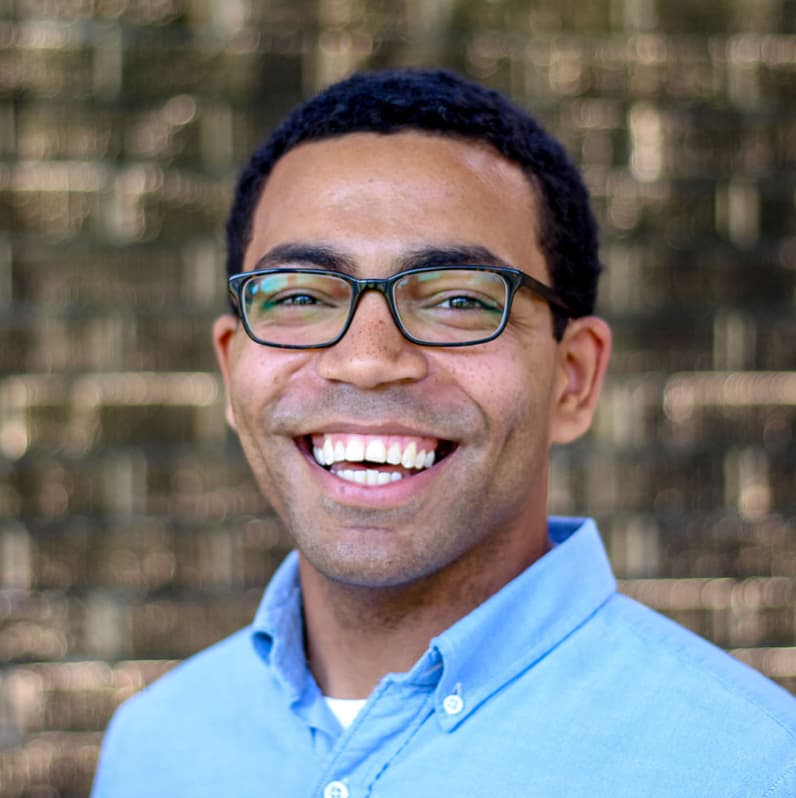
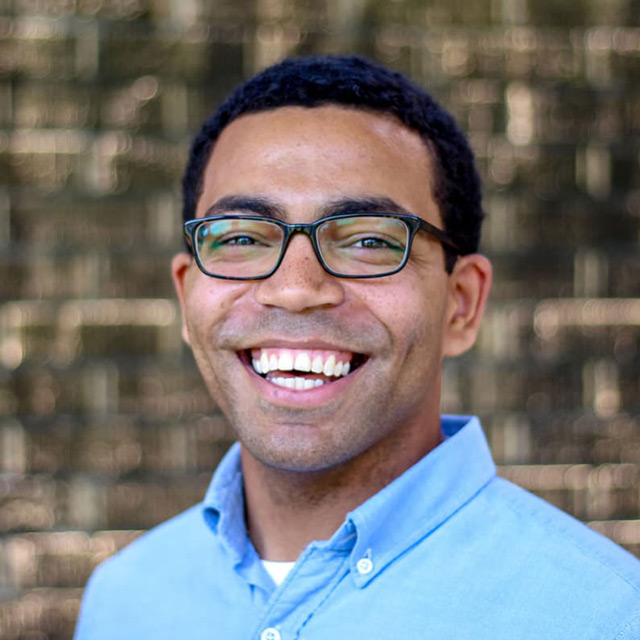
fix photo to be square

diff --git a/styles.css b/styles.css
@@ -52,7 +52,7 @@ body {
 
 .photo {
     width: 320px;
-    height: auto;
+    height: 320px;
     border: 12px solid  rgba(255,255,255,0.05);
     margin-bottom: 2rem;
 }
